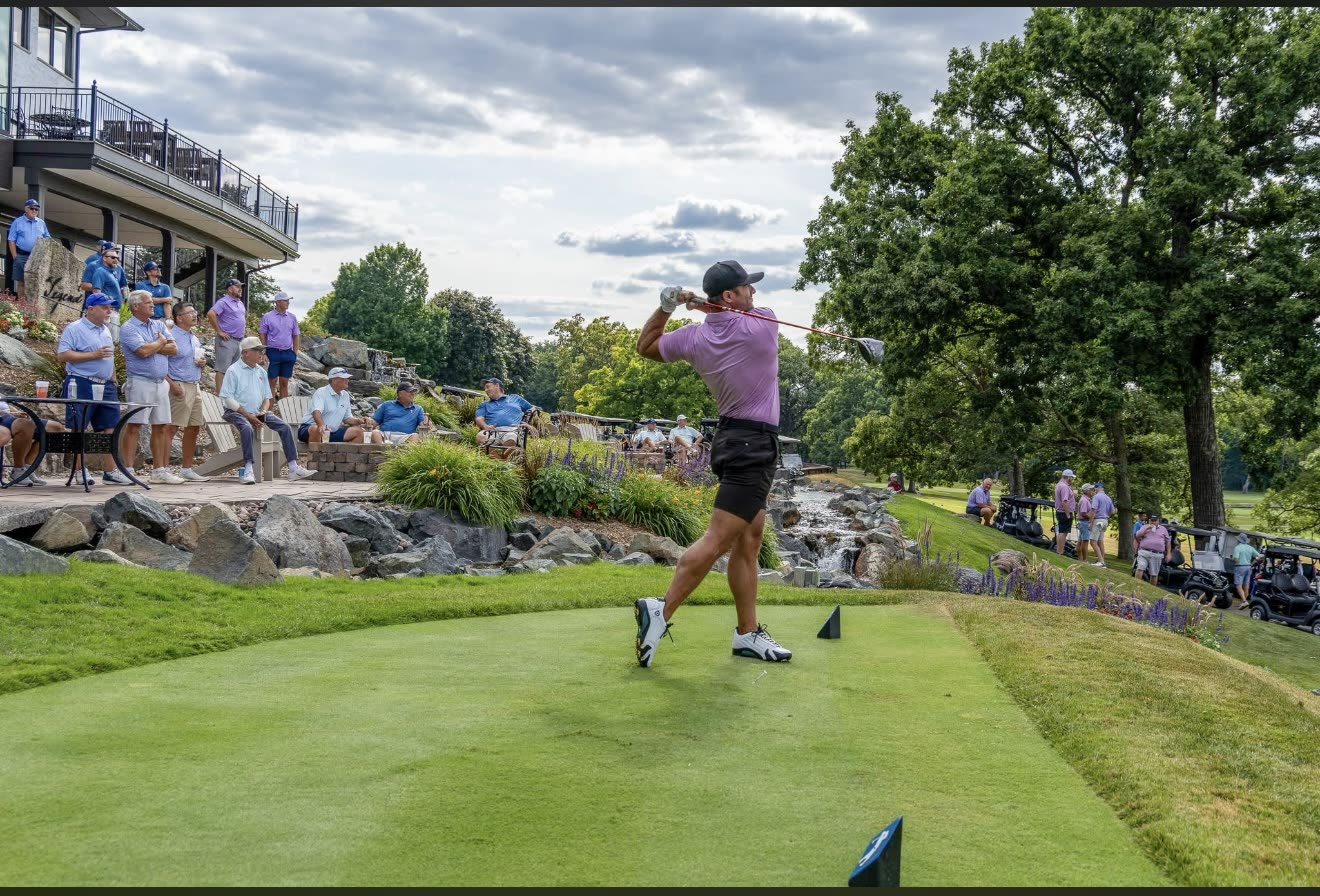
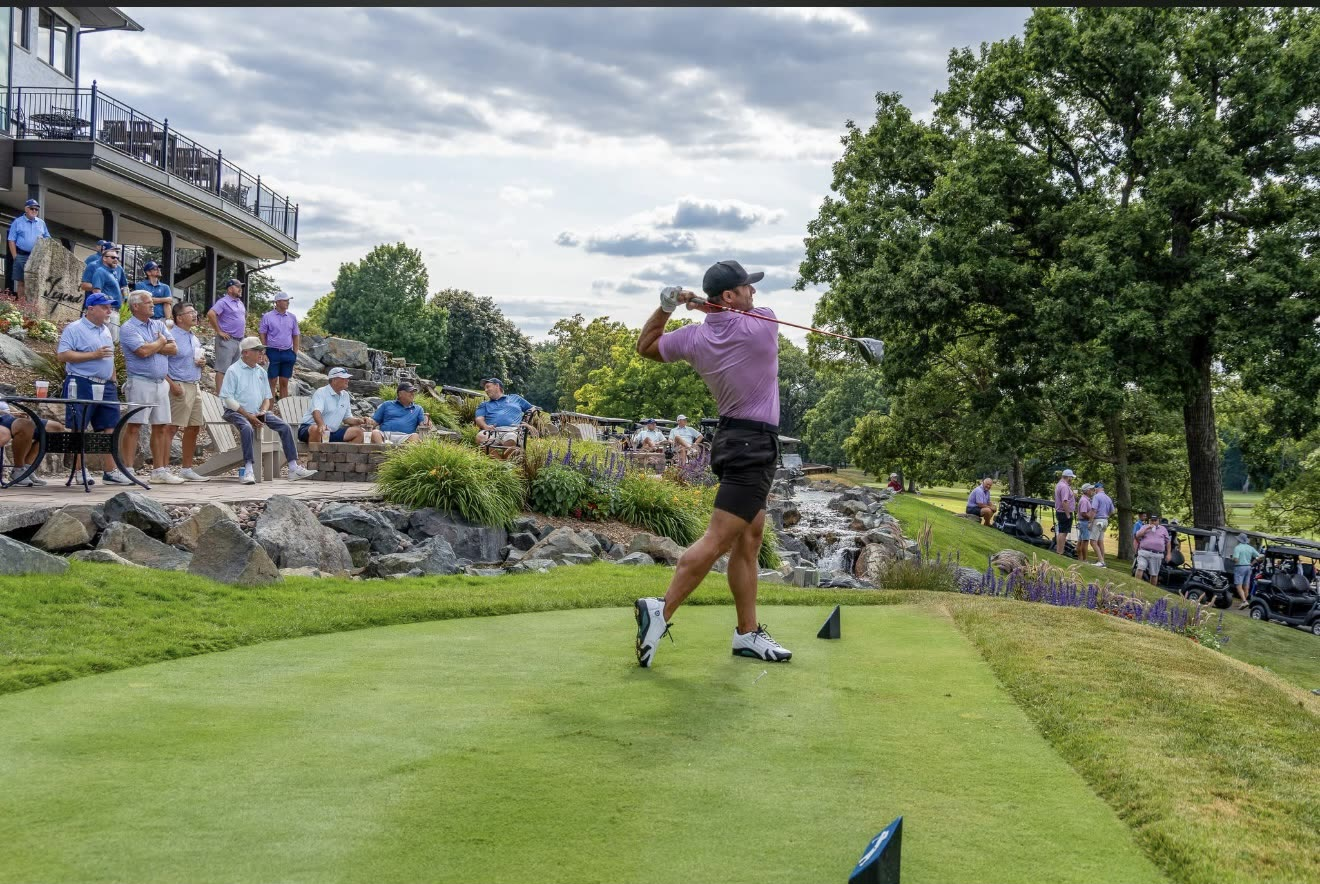
Home: story order (your numbers, Tiger, routine, reviews, close); reviews on the page color; trim black edge off the close photo

diff --git a/app/elite-tempo/ReviewsBand.tsx b/app/elite-tempo/ReviewsBand.tsx
@@ -9,7 +9,9 @@ import { useState } from "react";
 
 export type Review = { body: string; name: string };
 
-export default function ReviewsBand({ reviews, photo }: { reviews: Review[]; photo: string }) {
+/* `light` (11-05): the story order puts the reviews right before the dark photo close,
+ * so they sit on the page color instead, with no photo, to keep two dark bands apart. */
+export default function ReviewsBand({ reviews, photo, light = false }: { reviews: Review[]; photo: string; light?: boolean }) {
   const [i, setI] = useState(0);
   const r = reviews[i];
   const go = (by: number) => setI((n) => (n + by + reviews.length) % reviews.length);
@@ -17,25 +19,29 @@ export default function ReviewsBand({ reviews, photo }: { reviews: Review[]; pho
   return (
     <section aria-roledescription="carousel" aria-label="What golfers say" className="mt-[clamp(56px,8vw,96px)] overflow-hidden">
       <div
-        className="flex min-h-[clamp(520px,58vw,680px)] flex-col items-center justify-center bg-[#2A3A26] bg-cover px-[max(20px,env(safe-area-inset-left,0px))] py-16 text-center text-white"
-        style={{
-          backgroundImage: `linear-gradient(rgba(20,21,24,0.76), rgba(20,21,24,0.76)), url(${photo})`,
-          backgroundPosition: "50% 35%",
-        }}
+        className={`flex flex-col items-center justify-center px-[max(20px,env(safe-area-inset-left,0px))] text-center ${light ? "py-4 text-[#141518]" : "min-h-[clamp(520px,58vw,680px)] bg-[#2A3A26] bg-cover py-16 text-white"}`}
+        style={
+          light
+            ? undefined
+            : {
+                backgroundImage: `linear-gradient(rgba(20,21,24,0.76), rgba(20,21,24,0.76)), url(${photo})`,
+                backgroundPosition: "50% 35%",
+              }
+        }
       >
-        <p className="m-0 text-[16px] font-semibold text-white/80">What golfers are saying</p>
+        <p className={`m-0 text-[16px] font-semibold ${light ? "text-[#5F6065]" : "text-white/80"}`}>What golfers are saying</p>
         <figure key={i} className="et-quote m-0 mt-6 max-w-[22em]">
           <blockquote className="m-0 text-[clamp(26px,3.6vw,44px)] font-semibold leading-[1.18] tracking-[-0.02em] [text-wrap:balance]">
             “{r.body}”
           </blockquote>
-          <figcaption className="mt-5 text-[16px] text-white/80">{r.name}, App Store</figcaption>
+          <figcaption className={`mt-5 text-[16px] ${light ? "text-[#5F6065]" : "text-white/80"}`}>{r.name}, App Store</figcaption>
         </figure>
         <div className="mt-8 flex gap-3">
           <button
             type="button"
             onClick={() => go(-1)}
             aria-label="Previous review"
-            className="grid h-11 w-11 cursor-pointer place-items-center rounded-full border border-white/50 bg-transparent text-white transition hover:bg-white/10"
+            className={`grid h-11 w-11 cursor-pointer place-items-center rounded-full border bg-transparent transition ${light ? "border-[#141518]/30 text-[#141518] hover:bg-black/5" : "border-white/50 text-white hover:bg-white/10"}`}
           >
             <svg viewBox="0 0 24 24" width="20" height="20" fill="none" stroke="currentColor" strokeWidth="2" strokeLinecap="round" aria-hidden>
               <path d="M15 6l-6 6 6 6" />
@@ -45,7 +51,7 @@ export default function ReviewsBand({ reviews, photo }: { reviews: Review[]; pho
             type="button"
             onClick={() => go(1)}
             aria-label="Next review"
-            className="grid h-11 w-11 cursor-pointer place-items-center rounded-full border-0 bg-white text-[#141518] transition hover:brightness-95"
+            className={`grid h-11 w-11 cursor-pointer place-items-center rounded-full border-0 transition hover:brightness-95 ${light ? "bg-[#141518] text-white" : "bg-white text-[#141518]"}`}
           >
             <svg viewBox="0 0 24 24" width="20" height="20" fill="none" stroke="currentColor" strokeWidth="2" strokeLinecap="round" aria-hidden>
               <path d="M9 6l6 6-6 6" />

diff --git a/app/elite-tempo/page.tsx b/app/elite-tempo/page.tsx
@@ -233,6 +233,19 @@ export default function EliteTempoLanding() {
       {/* Every feature picture is real footage or a real piece of the app, and every
           number is the app's own reading (11-04). No floating labels: Eric found them
           hacky, and the numbers now appear where the app shows them. */}
+      <FeatureSection title="Four numbers captured every time you swing." body="Backswing, downswing, total time and tempo.">
+        <SwingTimingVideo
+          src="/elite-tempo/video/swing.mp4"
+          poster="/elite-tempo/video/swing-poster.jpg"
+          stillPoster="/elite-tempo/video/swing-top.jpg"
+          marks={{ takeaway: 0.5, top: 1.15, impact: 1.37 }}
+          /* The clip starts at frame 9 of the original, so top (frame 34) is frame 25
+             and impact (frame 41) is frame 32; each freeze lands mid-frame. */
+          freeze={{ top: 25.5 / 30, impact: 32.5 / 30, fps: 30 }}
+          label="Eric's driver on a sunny tee, pausing at the top of the backswing and at impact while its timing is shown."
+        />
+      </FeatureSection>
+
       <FeatureSection bare title="Compare your swing timing to a library of pros.">
         <TigerCompare
           rows={[
@@ -271,6 +284,7 @@ export default function EliteTempoLanding() {
 
       {/* Social proof between the features (Eric's wireframe, 11-04). */}
       <ReviewsBand
+        light
         photo="/elite-tempo/video/reviews.jpg"
         reviews={[
           { body: "I was just looking to improve my tempo and was strongly suggested this app. I love the ease of use and effectiveness.", name: "StayDialedIn" },
@@ -280,19 +294,6 @@ export default function EliteTempoLanding() {
         ]}
       />
 
-      <FeatureSection title="Four numbers captured every time you swing." body="Backswing, downswing, total time and tempo.">
-        <SwingTimingVideo
-          src="/elite-tempo/video/swing.mp4"
-          poster="/elite-tempo/video/swing-poster.jpg"
-          stillPoster="/elite-tempo/video/swing-top.jpg"
-          marks={{ takeaway: 0.5, top: 1.15, impact: 1.37 }}
-          /* The clip starts at frame 9 of the original, so top (frame 34) is frame 25
-             and impact (frame 41) is frame 32; each freeze lands mid-frame. */
-          freeze={{ top: 25.5 / 30, impact: 32.5 / 30, fps: 30 }}
-          label="Eric's driver on a sunny tee, pausing at the top of the backswing and at impact while its timing is shown."
-        />
-      </FeatureSection>
-
       {/* The close (Eric, 11-04, from his Figma note "full bleed image behind CTA"):
           his tee shot in front of a gallery, edge to edge, with one line, one "Try for
           free" button and the App Store rating. The words sit at the top, over the
@@ -301,7 +302,7 @@ export default function EliteTempoLanding() {
       <section id="pricing" className="relative mt-[clamp(56px,8vw,96px)] scroll-mt-16 overflow-hidden">
         <div
           className="flex min-h-[clamp(560px,62vw,720px)] flex-col items-center justify-center bg-[#2A3A26] bg-cover px-[max(20px,env(safe-area-inset-left,0px))] py-16 text-center text-white"
-          style={{ backgroundImage: "linear-gradient(rgba(20,21,24,0.78), rgba(20,21,24,0.68)), url(/elite-tempo/video/close.jpg?v=2)", backgroundPosition: "56% 70%" }}
+          style={{ backgroundImage: "linear-gradient(rgba(20,21,24,0.78), rgba(20,21,24,0.68)), url(/elite-tempo/video/close.jpg?v=3)", backgroundPosition: "56% 70%" }}
         >
           <h2 className="m-0 max-w-[16em] text-[clamp(32px,4.6vw,56px)] font-semibold leading-[1.05] tracking-[-0.03em] [text-shadow:0_2px_24px_rgba(0,0,0,0.35)] [text-wrap:balance]">
             Time your own swing before you pay a thing.
